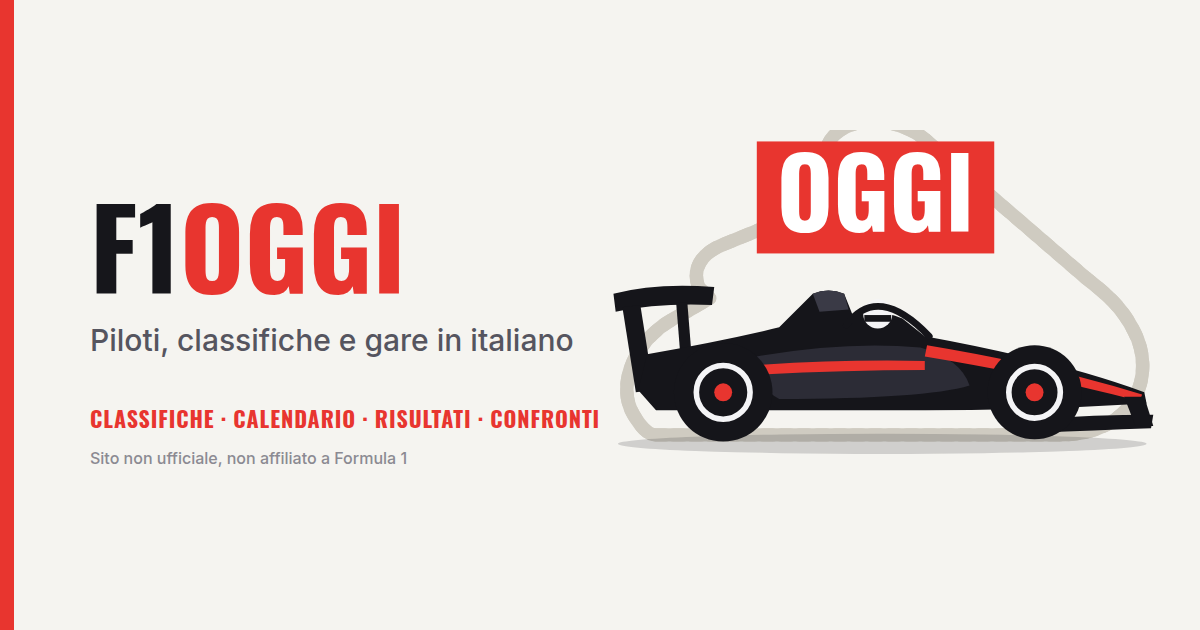
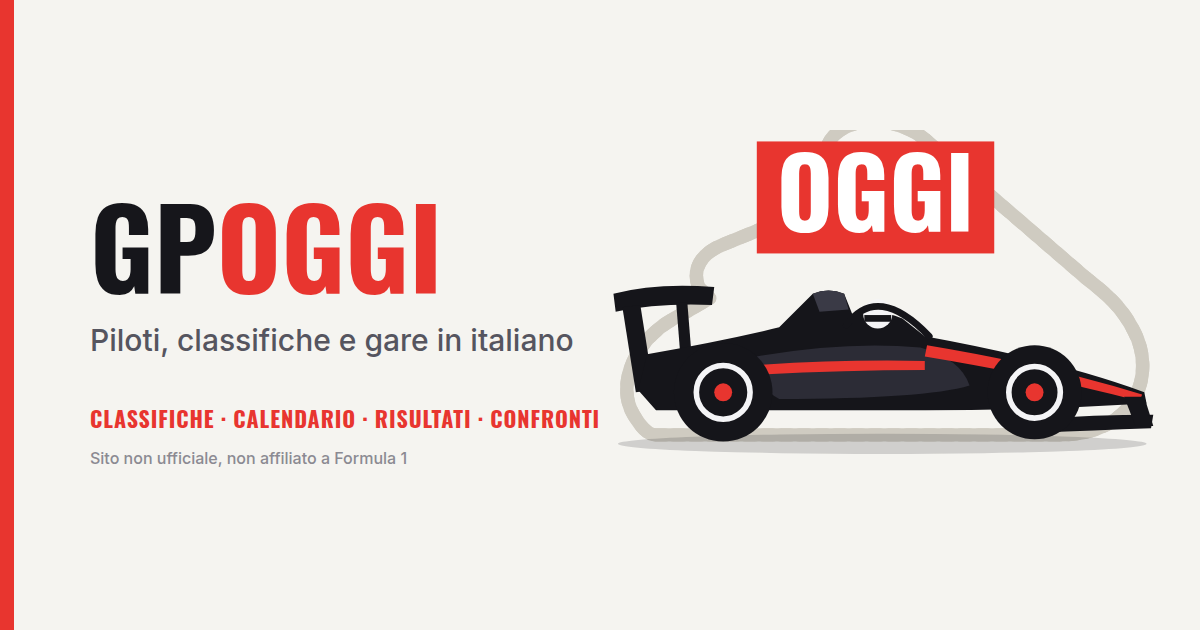
Nome del sito: GP Oggi
Claude-Session: https://claude.ai/code/session_01LSjs3G4VKcQCCA7ZSvC7tc

Changed region(s): [[0.0617, 0.3016, 0.37, 0.4825]]

diff --git a/docs/chi-siamo.html b/docs/chi-siamo.html
@@ -8,17 +8,17 @@
 <link rel="apple-touch-icon" href="img/apple-touch-icon.png">
 <link rel="manifest" href="manifest.json">
 <meta name="theme-color" content="#f5f4f0">
-<title>Chi siamo | F1 Oggi</title>
-<meta name="description" content="F1 Oggi è un sito non ufficiale sulla Formula 1, non affiliato a Formula 1, FIA o ai team.">
+<title>Chi siamo | GP Oggi</title>
+<meta name="description" content="GP Oggi è un sito non ufficiale sulla Formula 1, non affiliato a Formula 1, FIA o ai team.">
 <meta property="og:type" content="website">
-<meta property="og:site_name" content="F1 Oggi">
-<meta property="og:title" content="Chi siamo | F1 Oggi">
-<meta property="og:description" content="F1 Oggi è un sito non ufficiale sulla Formula 1, non affiliato a Formula 1, FIA o ai team.">
+<meta property="og:site_name" content="GP Oggi">
+<meta property="og:title" content="Chi siamo | GP Oggi">
+<meta property="og:description" content="GP Oggi è un sito non ufficiale sulla Formula 1, non affiliato a Formula 1, FIA o ai team.">
 <meta name="twitter:card" content="summary">
 <link rel="preconnect" href="https://fonts.googleapis.com">
 <link rel="preconnect" href="https://fonts.gstatic.com" crossorigin>
 <link href="https://fonts.googleapis.com/css2?family=Oswald:wght@500;600;700&family=Inter:wght@400;500;600&display=swap" rel="stylesheet">
-<link rel="stylesheet" href="css/style.css?v=6">
+<link rel="stylesheet" href="css/style.css?v=7">
 </head>
 <body>
 
@@ -27,7 +27,7 @@
 <div class="container">
 <article class="prosa">
     <h1>Chi siamo</h1>
-    <h2>Cos'è F1 Oggi</h2>
+    <h2>Cos'è GP Oggi</h2>
     <p>Un sito informativo sulla stagione di Formula 1 in corso: piloti, classifiche, calendario e risultati per sessione, in italiano.</p>
     <h2>Sito non ufficiale</h2>
     <p><strong>Questo sito non è ufficiale e non è affiliato a Formula 1, alla FIA, a Liberty Media né ad alcun team o pilota.</strong> Formula 1, F1 e i relativi marchi appartengono ai rispettivi proprietari e sono citati solo a scopo descrittivo. Non usiamo loghi, immagini o font ufficiali.</p>

diff --git a/docs/index.html b/docs/index.html
@@ -8,17 +8,17 @@
 <link rel="apple-touch-icon" href="img/apple-touch-icon.png">
 <link rel="manifest" href="manifest.json">
 <meta name="theme-color" content="#f5f4f0">
-<title>F1 Oggi — Piloti, classifiche e gare di Formula 1</title>
+<title>GP Oggi — Piloti, classifiche e gare di Formula 1</title>
 <meta name="description" content="Piloti, classifiche, calendario e risultati per sessione della stagione di Formula 1 in corso, in italiano. Sito non ufficiale.">
 <meta property="og:type" content="website">
-<meta property="og:site_name" content="F1 Oggi">
-<meta property="og:title" content="F1 Oggi — Piloti, classifiche e gare di Formula 1">
+<meta property="og:site_name" content="GP Oggi">
+<meta property="og:title" content="GP Oggi — Piloti, classifiche e gare di Formula 1">
 <meta property="og:description" content="Piloti, classifiche, calendario e risultati per sessione della stagione di Formula 1 in corso, in italiano. Sito non ufficiale.">
 <meta name="twitter:card" content="summary">
 <link rel="preconnect" href="https://fonts.googleapis.com">
 <link rel="preconnect" href="https://fonts.gstatic.com" crossorigin>
 <link href="https://fonts.googleapis.com/css2?family=Oswald:wght@500;600;700&family=Inter:wght@400;500;600&display=swap" rel="stylesheet">
-<link rel="stylesheet" href="css/style.css?v=6">
+<link rel="stylesheet" href="css/style.css?v=7">
 </head>
 <body>
 
@@ -63,6 +63,6 @@
 
 <footer id="site-footer" class="site-footer"></footer>
 
-<script type="module" src="js/home.js?v=6"></script>
+<script type="module" src="js/home.js?v=7"></script>
 </body>
 </html>

diff --git a/docs/piloti.html b/docs/piloti.html
@@ -8,17 +8,17 @@
 <link rel="apple-touch-icon" href="img/apple-touch-icon.png">
 <link rel="manifest" href="manifest.json">
 <meta name="theme-color" content="#f5f4f0">
-<title>Piloti — F1 Oggi</title>
+<title>Piloti — GP Oggi</title>
 <meta name="description" content="Tutti i piloti della stagione di Formula 1: foto, team, punti in classifica e schede con i risultati. Sito non ufficiale.">
 <meta property="og:type" content="website">
-<meta property="og:site_name" content="F1 Oggi">
-<meta property="og:title" content="Piloti — F1 Oggi">
+<meta property="og:site_name" content="GP Oggi">
+<meta property="og:title" content="Piloti — GP Oggi">
 <meta property="og:description" content="Piloti, classifiche, calendario e risultati per sessione della stagione di Formula 1 in corso, in italiano. Sito non ufficiale.">
 <meta name="twitter:card" content="summary">
 <link rel="preconnect" href="https://fonts.googleapis.com">
 <link rel="preconnect" href="https://fonts.gstatic.com" crossorigin>
 <link href="https://fonts.googleapis.com/css2?family=Oswald:wght@500;600;700&family=Inter:wght@400;500;600&display=swap" rel="stylesheet">
-<link rel="stylesheet" href="css/style.css?v=6">
+<link rel="stylesheet" href="css/style.css?v=7">
 </head>
 <body>
 
@@ -38,6 +38,6 @@
 
 <footer id="site-footer" class="site-footer"></footer>
 
-<script type="module" src="js/piloti.js?v=6"></script>
+<script type="module" src="js/piloti.js?v=7"></script>
 </body>
 </html>

diff --git a/docs/crediti.html b/docs/crediti.html
@@ -8,17 +8,17 @@
 <link rel="apple-touch-icon" href="img/apple-touch-icon.png">
 <link rel="manifest" href="manifest.json">
 <meta name="theme-color" content="#f5f4f0">
-<title>Crediti foto | F1 Oggi</title>
-<meta name="description" content="Autori e licenze delle foto e delle mappe usate su F1 Oggi.">
+<title>Crediti foto | GP Oggi</title>
+<meta name="description" content="Autori e licenze delle foto e delle mappe usate su GP Oggi.">
 <meta property="og:type" content="website">
-<meta property="og:site_name" content="F1 Oggi">
-<meta property="og:title" content="Crediti foto | F1 Oggi">
-<meta property="og:description" content="Autori e licenze delle foto e delle mappe usate su F1 Oggi.">
+<meta property="og:site_name" content="GP Oggi">
+<meta property="og:title" content="Crediti foto | GP Oggi">
+<meta property="og:description" content="Autori e licenze delle foto e delle mappe usate su GP Oggi.">
 <meta name="twitter:card" content="summary">
 <link rel="preconnect" href="https://fonts.googleapis.com">
 <link rel="preconnect" href="https://fonts.gstatic.com" crossorigin>
 <link href="https://fonts.googleapis.com/css2?family=Oswald:wght@500;600;700&family=Inter:wght@400;500;600&display=swap" rel="stylesheet">
-<link rel="stylesheet" href="css/style.css?v=6">
+<link rel="stylesheet" href="css/style.css?v=7">
 </head>
 <body>
 

diff --git a/docs/gare.html b/docs/gare.html
@@ -8,17 +8,17 @@
 <link rel="apple-touch-icon" href="img/apple-touch-icon.png">
 <link rel="manifest" href="manifest.json">
 <meta name="theme-color" content="#f5f4f0">
-<title>Calendario F1 — Weekend di gara | F1 Oggi</title>
+<title>Calendario F1 — Weekend di gara | GP Oggi</title>
 <meta name="description" content="Calendario dei weekend di Formula 1 con prove libere, qualifiche, sprint e gara.">
 <meta property="og:type" content="website">
-<meta property="og:site_name" content="F1 Oggi">
-<meta property="og:title" content="Calendario F1 — Weekend di gara | F1 Oggi">
+<meta property="og:site_name" content="GP Oggi">
+<meta property="og:title" content="Calendario F1 — Weekend di gara | GP Oggi">
 <meta property="og:description" content="Calendario dei weekend di Formula 1 con prove libere, qualifiche, sprint e gara.">
 <meta name="twitter:card" content="summary">
 <link rel="preconnect" href="https://fonts.googleapis.com">
 <link rel="preconnect" href="https://fonts.gstatic.com" crossorigin>
 <link href="https://fonts.googleapis.com/css2?family=Oswald:wght@500;600;700&family=Inter:wght@400;500;600&display=swap" rel="stylesheet">
-<link rel="stylesheet" href="css/style.css?v=6">
+<link rel="stylesheet" href="css/style.css?v=7">
 </head>
 <body>
 

diff --git a/docs/classifiche.html b/docs/classifiche.html
@@ -8,17 +8,17 @@
 <link rel="apple-touch-icon" href="img/apple-touch-icon.png">
 <link rel="manifest" href="manifest.json">
 <meta name="theme-color" content="#f5f4f0">
-<title>Classifiche F1 — Piloti e costruttori | F1 Oggi</title>
+<title>Classifiche F1 — Piloti e costruttori | GP Oggi</title>
 <meta name="description" content="Classifica piloti e costruttori del mondiale di Formula 1 in corso.">
 <meta property="og:type" content="website">
-<meta property="og:site_name" content="F1 Oggi">
-<meta property="og:title" content="Classifiche F1 — Piloti e costruttori | F1 Oggi">
+<meta property="og:site_name" content="GP Oggi">
+<meta property="og:title" content="Classifiche F1 — Piloti e costruttori | GP Oggi">
 <meta property="og:description" content="Classifica piloti e costruttori del mondiale di Formula 1 in corso.">
 <meta name="twitter:card" content="summary">
 <link rel="preconnect" href="https://fonts.googleapis.com">
 <link rel="preconnect" href="https://fonts.gstatic.com" crossorigin>
 <link href="https://fonts.googleapis.com/css2?family=Oswald:wght@500;600;700&family=Inter:wght@400;500;600&display=swap" rel="stylesheet">
-<link rel="stylesheet" href="css/style.css?v=6">
+<link rel="stylesheet" href="css/style.css?v=7">
 </head>
 <body>
 

diff --git a/docs/confronto.html b/docs/confronto.html
@@ -8,17 +8,17 @@
 <link rel="apple-touch-icon" href="img/apple-touch-icon.png">
 <link rel="manifest" href="manifest.json">
 <meta name="theme-color" content="#f5f4f0">
-<title>Confronto piloti F1 | F1 Oggi</title>
+<title>Confronto piloti F1 | GP Oggi</title>
 <meta name="description" content="Confronta due piloti di Formula 1: punti, vittorie, podi e testa a testa in gara.">
 <meta property="og:type" content="website">
-<meta property="og:site_name" content="F1 Oggi">
-<meta property="og:title" content="Confronto piloti F1 | F1 Oggi">
+<meta property="og:site_name" content="GP Oggi">
+<meta property="og:title" content="Confronto piloti F1 | GP Oggi">
 <meta property="og:description" content="Confronta due piloti di Formula 1: punti, vittorie, podi e testa a testa in gara.">
 <meta name="twitter:card" content="summary">
 <link rel="preconnect" href="https://fonts.googleapis.com">
 <link rel="preconnect" href="https://fonts.gstatic.com" crossorigin>
 <link href="https://fonts.googleapis.com/css2?family=Oswald:wght@500;600;700&family=Inter:wght@400;500;600&display=swap" rel="stylesheet">
-<link rel="stylesheet" href="css/style.css?v=6">
+<link rel="stylesheet" href="css/style.css?v=7">
 </head>
 <body>
 

diff --git a/docs/gara.html b/docs/gara.html
@@ -8,17 +8,17 @@
 <link rel="apple-touch-icon" href="img/apple-touch-icon.png">
 <link rel="manifest" href="manifest.json">
 <meta name="theme-color" content="#f5f4f0">
-<title>Weekend di gara | F1 Oggi</title>
+<title>Weekend di gara | GP Oggi</title>
 <meta name="description" content="Risultati per sessione del weekend di Formula 1: prove libere, qualifiche, sprint e gara.">
 <meta property="og:type" content="website">
-<meta property="og:site_name" content="F1 Oggi">
-<meta property="og:title" content="Weekend di gara | F1 Oggi">
+<meta property="og:site_name" content="GP Oggi">
+<meta property="og:title" content="Weekend di gara | GP Oggi">
 <meta property="og:description" content="Risultati per sessione del weekend di Formula 1: prove libere, qualifiche, sprint e gara.">
 <meta name="twitter:card" content="summary">
 <link rel="preconnect" href="https://fonts.googleapis.com">
 <link rel="preconnect" href="https://fonts.gstatic.com" crossorigin>
 <link href="https://fonts.googleapis.com/css2?family=Oswald:wght@500;600;700&family=Inter:wght@400;500;600&display=swap" rel="stylesheet">
-<link rel="stylesheet" href="css/style.css?v=6">
+<link rel="stylesheet" href="css/style.css?v=7">
 </head>
 <body>
 

diff --git a/docs/privacy.html b/docs/privacy.html
@@ -8,17 +8,17 @@
 <link rel="apple-touch-icon" href="img/apple-touch-icon.png">
 <link rel="manifest" href="manifest.json">
 <meta name="theme-color" content="#f5f4f0">
-<title>Privacy | F1 Oggi</title>
-<meta name="description" content="Informativa privacy di F1 Oggi.">
+<title>Privacy | GP Oggi</title>
+<meta name="description" content="Informativa privacy di GP Oggi.">
 <meta property="og:type" content="website">
-<meta property="og:site_name" content="F1 Oggi">
-<meta property="og:title" content="Privacy | F1 Oggi">
-<meta property="og:description" content="Informativa privacy di F1 Oggi.">
+<meta property="og:site_name" content="GP Oggi">
+<meta property="og:title" content="Privacy | GP Oggi">
+<meta property="og:description" content="Informativa privacy di GP Oggi.">
 <meta name="twitter:card" content="summary">
 <link rel="preconnect" href="https://fonts.googleapis.com">
 <link rel="preconnect" href="https://fonts.gstatic.com" crossorigin>
 <link href="https://fonts.googleapis.com/css2?family=Oswald:wght@500;600;700&family=Inter:wght@400;500;600&display=swap" rel="stylesheet">
-<link rel="stylesheet" href="css/style.css?v=6">
+<link rel="stylesheet" href="css/style.css?v=7">
 </head>
 <body>
 

diff --git a/docs/pilota.html b/docs/pilota.html
@@ -8,17 +8,17 @@
 <link rel="apple-touch-icon" href="img/apple-touch-icon.png">
 <link rel="manifest" href="manifest.json">
 <meta name="theme-color" content="#f5f4f0">
-<title>Pilota | F1 Oggi</title>
+<title>Pilota | GP Oggi</title>
 <meta name="description" content="Scheda pilota di Formula 1: punti, vittorie, podi e risultati di ogni weekend della stagione.">
 <meta property="og:type" content="website">
-<meta property="og:site_name" content="F1 Oggi">
-<meta property="og:title" content="Pilota | F1 Oggi">
+<meta property="og:site_name" content="GP Oggi">
+<meta property="og:title" content="Pilota | GP Oggi">
 <meta property="og:description" content="Scheda pilota di Formula 1: punti, vittorie, podi e risultati di ogni weekend della stagione.">
 <meta name="twitter:card" content="summary">
 <link rel="preconnect" href="https://fonts.googleapis.com">
 <link rel="preconnect" href="https://fonts.gstatic.com" crossorigin>
 <link href="https://fonts.googleapis.com/css2?family=Oswald:wght@500;600;700&family=Inter:wght@400;500;600&display=swap" rel="stylesheet">
-<link rel="stylesheet" href="css/style.css?v=6">
+<link rel="stylesheet" href="css/style.css?v=7">
 </head>
 <body>
 

diff --git a/docs/js/common.js b/docs/js/common.js
@@ -46,7 +46,7 @@ export function renderHeader(paginaAttuale) {
   ];
   document.getElementById("site-header").innerHTML = `
     <nav class="nav container">
-      <a href="index.html" class="brand" aria-label="F1 Oggi, home"><img src="img/logo-wide.png" alt="" class="brand-logo chiaro" width="88" height="52"><img src="img/logo-wide-scuro.png" alt="" class="brand-logo scuro" width="88" height="52"><span>F1<span class="dot">•</span>Oggi</span></a>
+      <a href="index.html" class="brand" aria-label="GP Oggi, home"><img src="img/logo-wide.png" alt="" class="brand-logo chiaro" width="88" height="52"><img src="img/logo-wide-scuro.png" alt="" class="brand-logo scuro" width="88" height="52"><span>GP<span class="dot">•</span>Oggi</span></a>
       <div class="nav-destra">
         <div class="nav-links">
           ${voci.map(([id, href, label]) => `<a href="${href}" class="${id === paginaAttuale ? "active" : ""}">${label}</a>`).join("")}

diff --git a/docs/js/gara.js b/docs/js/gara.js
@@ -25,7 +25,7 @@ try {
   const [g, roster, st] = await Promise.all([fetchJSON(`data/gare/${id}.json`), fetchJSON("data/roster.json"), fetchJSON("data/standings.json")]);
   const colori = Object.fromEntries(st.costruttori.map((c) => [c.team, c.colore]));
   const foto = Object.fromEntries(roster.filter((p) => p.foto).map((p) => [p.numero, p.foto]));
-  document.title = `${g.nome} — F1 Oggi`;
+  document.title = `${g.nome} — GP Oggi`;
   const ora = new Date();
   const sessioni = g.sessioni;
   const predefinita = [...sessioni].reverse().find((s) => s.risultati) || sessioni[0];
